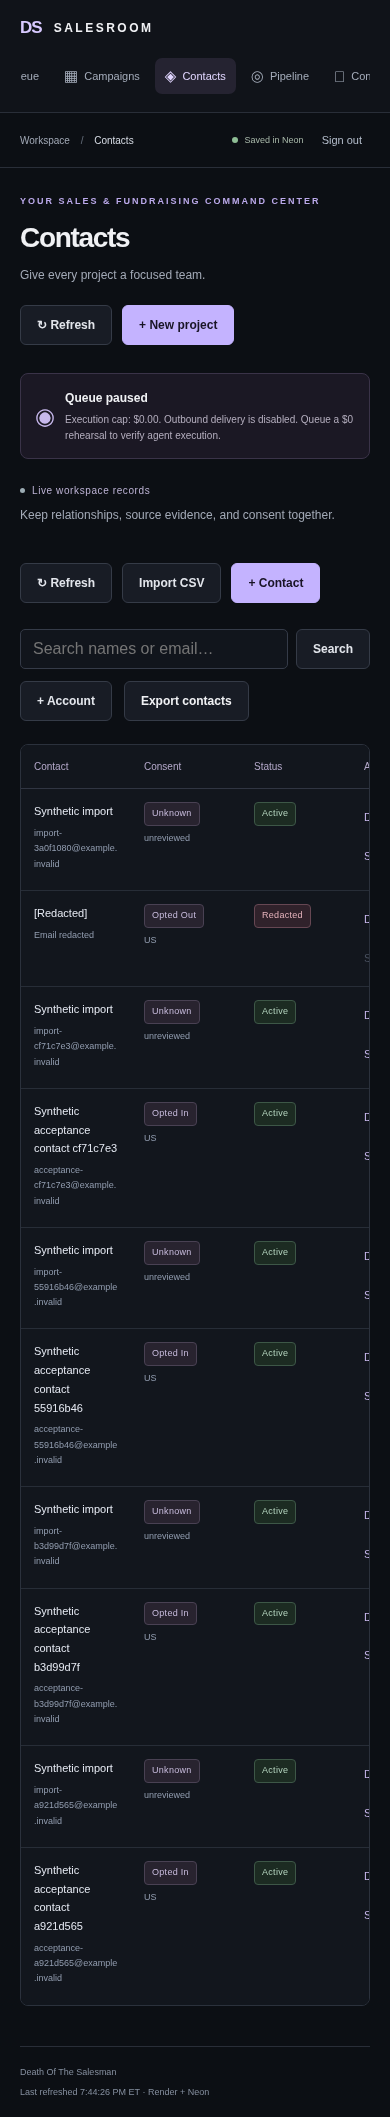
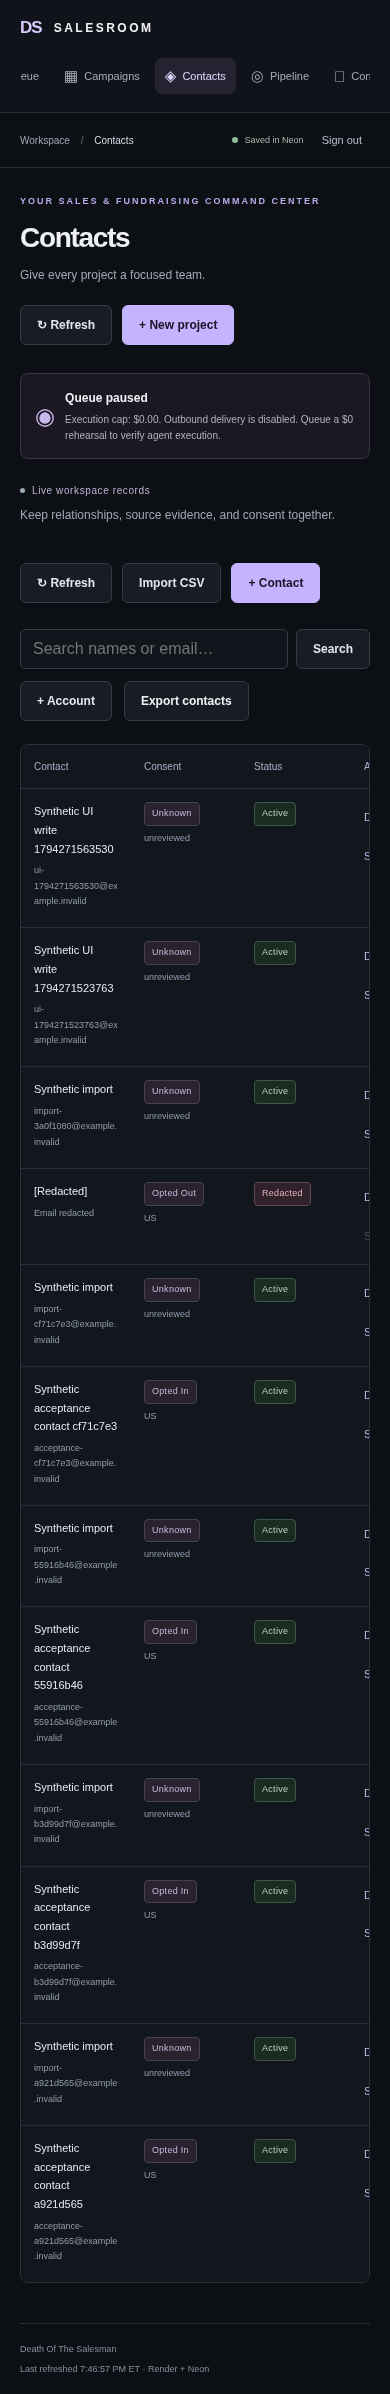
DOTS-031: Verify browser mutations and preserve optional conversation scope

diff --git a/apps/web/app/operations-console.tsx b/apps/web/app/operations-console.tsx
@@ -43,7 +43,7 @@ export function OperationsConsole({view,data:initial,workspace,onData,onWorkspac
  const contactName=(id:string)=>get('contacts').find(c=>c.id===id)?.display_name??'Contact';
  useEffect(()=>{setPage(0);setSearch('');setFilter('all');setError('');setNotice('');},[view]);
  async function refresh(section?:string,nextPage=0,query=search,conversation=thread){setBusy(true);setError('');try{const params=new URLSearchParams();if(section)params.set('section',section);params.set('page',String(nextPage));if(query)params.set('q',query);if(conversation)params.set('conversation',conversation);const response=await fetch(`/api/operations?${params}`,{cache:'no-store'});const result=await response.json();if(!response.ok)throw new Error(readableError(result.error));onData(result);setPage(nextPage);}catch(cause){setError(cause instanceof Error?cause.message:'Could not refresh.');}finally{setBusy(false);}}
- async function perform(action:string,values:DataRow={},success='Saved'){setBusy(true);setError('');setNotice('');try{const response=await fetch('/api/operations',{method:'POST',headers:{'Content-Type':'application/json'},body:JSON.stringify({action,...values,conversationId:values.conversationId??thread??undefined})});const result=await response.json();if(!response.ok)throw new Error(readableError(result.error));onData(result.data);setNotice(success);if(['createAgent','configureAgent','enqueueTask','cancelTask','pauseAll','setAgentStatus','updateAssignment'].includes(action))onWorkspaceChange();return result.outcome;}catch(cause){const message=cause instanceof Error?cause.message:'Could not save.';setError(message);throw new Error(message);}finally{setBusy(false);}}
+ async function perform(action:string,values:DataRow={},success='Saved'){setBusy(true);setError('');setNotice('');try{const response=await fetch('/api/operations',{method:'POST',headers:{'Content-Type':'application/json'},body:JSON.stringify({action,...values,conversationId:(values.conversationId??thread)||undefined})});const result=await response.json();if(!response.ok)throw new Error(readableError(result.error));onData(result.data);setNotice(success);if(['createAgent','configureAgent','enqueueTask','cancelTask','pauseAll','setAgentStatus','updateAssignment'].includes(action))onWorkspaceChange();return result.outcome;}catch(cause){const message=cause instanceof Error?cause.message:'Could not save.';setError(message);throw new Error(message);}finally{setBusy(false);}}
  const click=(action:string,values:DataRow={},success?:string)=>{void perform(action,values,success).catch(()=>undefined);};
  function open(title:string,action:string,fields:Field[],initial:DataRow={},submit?:string){setForm({title,action,fields,initial,submit});}
  const projectField:Field={name:'projectId',label:'Project',type:'select',options:projects};

diff --git a/apps/web/lib/operations.ts b/apps/web/lib/operations.ts
@@ -1,5 +1,5 @@
 import {database,inWorkspace,tenant as workspaceTenant} from './database';
-import {ControlPlane,SalesWorkspace,GrowthWorkspace,DocumentLibrary,DeliveryGateway,PaymentGateway,DurableQueue,providerConfiguration,providerIds,type Client,type Context} from '@dots/operations';
+import {identifier,ControlPlane,SalesWorkspace,GrowthWorkspace,DocumentLibrary,DeliveryGateway,PaymentGateway,DurableQueue,providerConfiguration,providerIds,type Client,type Context} from '@dots/operations';
 export type DataRow=Record<string,any>;
 export type OperationsSnapshot={records:Record<string,DataRow[]>;totals:Record<string,number>;summary:DataRow;providers:DataRow[];capabilities:DataRow;observedAt:string};
 export function context():Context{const owner=workspaceTenant();return {organizationId:owner.organizationId,membershipId:owner.ownerMembershipId};}
@@ -9,7 +9,7 @@ const sources:Record<string,{table:string;columns?:string;order?:string}>={
 };
 export async function loadOperations(options:{section?:string;page?:number;query?:string;conversation?:string}={}):Promise<OperationsSnapshot>{return inWorkspace(async client=>{
  const page=Number.isSafeInteger(options.page)&&Number(options.page)>=0?Math.min(100000,Number(options.page)):0;
- const values=[workspaceTenant().organizationId,options.query?`%${options.query.slice(0,100)}%`:null,options.conversation??null];
+ const values=[workspaceTenant().organizationId,options.query?`%${options.query.slice(0,100)}%`:null,options.conversation?identifier(options.conversation):null];
  const recordParts:string[]=[],countParts:string[]=[];
  for(const [name,source] of Object.entries(sources)){
   const conditions=['organization_id=$1'];

diff --git a/apps/web/app/api/operations/route.ts b/apps/web/app/api/operations/route.ts
@@ -82,5 +82,5 @@ export async function POST(request:Request){try{
  case 'addMailbox':await tenant(client,ctx,async tx=>{const email=text(body.email,'email',254);if(!/^[^\s@]+@[^\s@]+\.[^\s@]+$/.test(email))throw new OperationError('INVALID_EMAIL',400);await tx.query("INSERT INTO app.mailboxes(organization_id,label,sender_email,sender_name,business_address,provider,verified,status) VALUES($1,$2,$3,$4,$5,'resend',false,'disabled')",[ctx.organizationId,text(body.label,'mailbox',120),email,text(body.name,'sender_name',120),text(body.address,'business_address',500)]);await event(tx,ctx,'mailbox.created',null);});break;
  default:throw new OperationError('UNKNOWN_ACTION',400);
  }});
- if(['enqueueTask','retryTask','pauseAll'].includes(body.action))wakeWorker();const data=await loadOperations({conversation:typeof body.conversationId==='string'?body.conversationId:undefined});return Response.json({data,outcome},{headers});
+ if(['enqueueTask','retryTask','pauseAll'].includes(body.action))wakeWorker();const data=await loadOperations({conversation:typeof body.conversationId==='string'&&body.conversationId?identifier(body.conversationId):undefined});return Response.json({data,outcome},{headers});
  }catch(error){if(error instanceof SyntaxError)return Response.json({error:'INVALID_JSON'},{status:400,headers});return errorResponse(error);}}

diff --git a/docs/LIVE_RELEASE_STATUS.md b/docs/LIVE_RELEASE_STATUS.md
@@ -28,7 +28,11 @@ The owner's real mailbox OTP round trip remains unverified.
 - [Machine-readable workflow evidence](evidence/operations-staging-acceptance.json).
 - [Desktop screenshot](evidence/operations-desktop.png).
 - [Mobile screenshot](evidence/operations-mobile.png).
-- All 14 console views passed authenticated desktop/mobile browser rendering and overflow checks.
+- [Browser acceptance](evidence/operations-browser-acceptance.json): all 14 views passed
+  desktop/mobile rendering and overflow checks; form saves persisted after reload and
+  keyboard dialog dismissal passed.
+- [Production hold check](evidence/operations-production-hold.json): the previous runtime
+  remains healthy and owner-protected while activation is blocked.
 - Local `pnpm check`: 117 passing tests, typecheck, secret scan and production build.
 - Dependency audit: no known vulnerabilities. Failure-contract test passed.
 - New migrations 0011–0013 have been applied to staging and production; these are additive.
